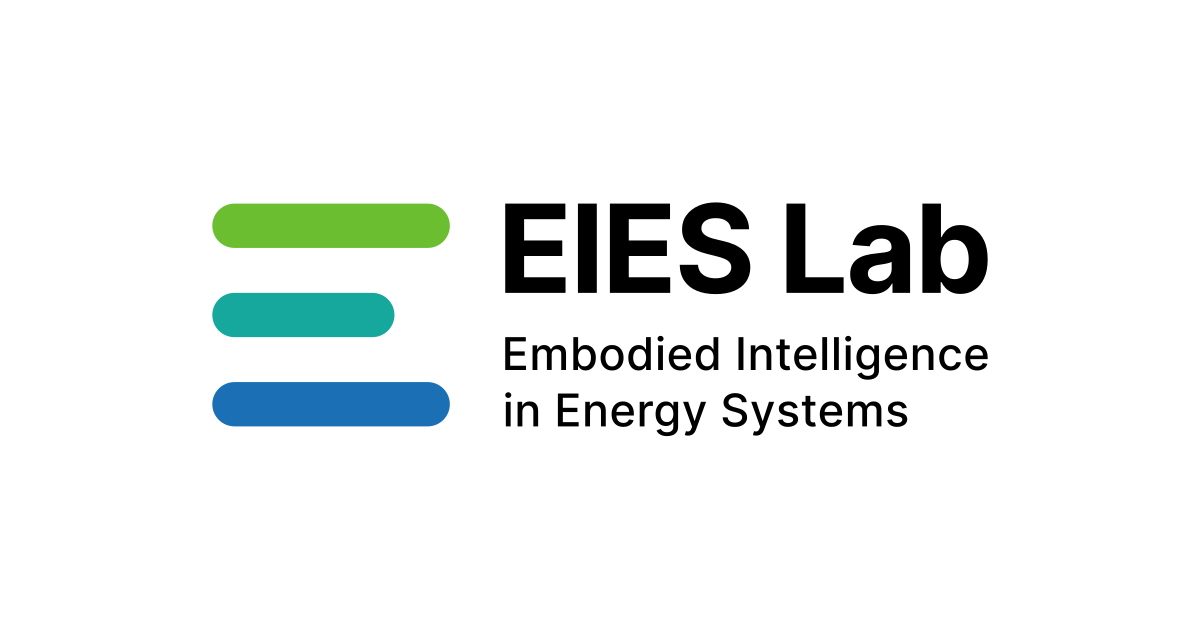
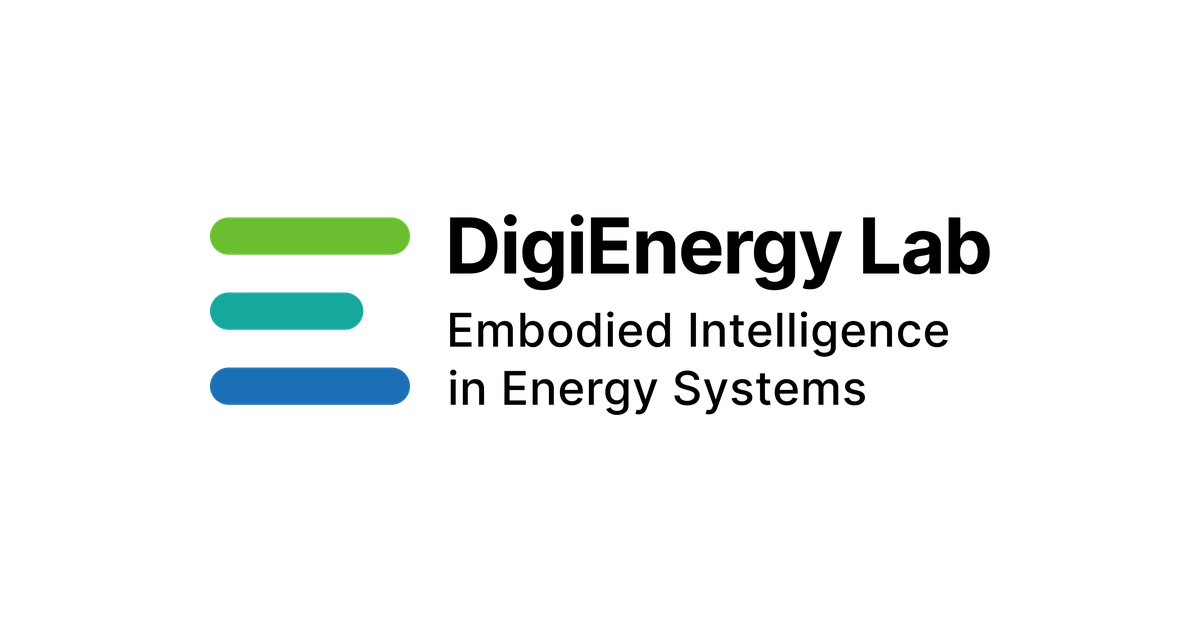
Rename the lab to DigiEnergy Lab; keep the embodied-intelligence narrative
- Logo: DigiEnergy Lab wordmark (C1 layout) above the unchanged
  "Embodied Intelligence in Energy Systems" line; EIES logo and share image
  kept as logo-eies.svg / sharing-eies.png
- Site name, browser title, copyright, homepage eyebrow and SEO text
- Homepage title is the research theme, without "Laboratory for"
- Team intro: DigiEnergy Lab is part of UEX at PolyU
- Contact page, profile default affiliation, member bios, news post
- Publications: drop the paper count

Changed region(s): [[0.1542, 0.3016, 0.8325, 0.6937], [0.185, 0.4524, 0.3392, 0.5429], [0.185, 0.3921, 0.3392, 0.4222]]

diff --git a/layouts/_partials/hbx/blocks/member-profile/block.html b/layouts/_partials/hbx/blocks/member-profile/block.html
@@ -14,7 +14,7 @@
     {{ with $profile.role }}<p class="mp-eyebrow">{{ . | markdownify }}</p>{{ end }}
     <h1 class="mp-name">{{ $profile.title }}{{ with $profile.name_alternate }}{{ if ne . $profile.title }} <span class="mp-alt">{{ . }}</span>{{ end }}{{ end }}</h1>
     {{ with $profile.affiliations }}{{ range first 1 . }}<p class="mp-aff">{{ .name }}</p>{{ end }}
-    {{ else }}<p class="mp-aff">{{ cond $zh "EIES-Lab · 香港理工大学" "EIES-Lab · The Hong Kong Polytechnic University" }}</p>{{ end }}
+    {{ else }}<p class="mp-aff">{{ cond $zh "DigiEnergy Lab · 香港理工大学" "DigiEnergy Lab · The Hong Kong Polytechnic University" }}</p>{{ end }}
     {{ with $profile.co_supervisor }}<p class="mp-cosup">{{ cond $zh (printf "与%s联合指导" .) (printf "Jointly supervised with %s" .) }}</p>{{ end }}
     <div class="mp-lead">
       {{ with $profile.bio }}{{ $page.RenderString (dict "display" "block") . }}{{ else }}<p>{{ cond $zh "个人简介待补充。" "Biography to come." }}</p>{{ end }}

diff --git a/layouts/publications/list.html b/layouts/publications/list.html
@@ -7,7 +7,7 @@
 <div class="pl-shell">
   <header class="pl-head">
     <h1>{{ .Title }}</h1>
-    <p class="pl-lead">{{ if $zh }}课题组成员发表的论文，共 {{ len $papers }} 篇。成员姓名加粗。{{ else }}{{ len $papers }} papers by lab members. Lab members are shown in bold.{{ end }}</p>
+    <p class="pl-lead">{{ if $zh }}成员姓名加粗。{{ else }}Lab members are shown in bold.{{ end }}</p>
     {{ with .Content }}<div class="pl-intro">{{ . }}</div>{{ end }}
   </header>
 

diff --git a/content/contact/_index.md b/content/contact/_index.md
@@ -14,14 +14,14 @@ sections:
         - { icon: hero/building-office-2, label: Department, value: Building Environment and Energy Engineering, url: "https://www.polyu.edu.hk/beee/" }
       visit:
         eyebrow: Visit
-        title: EIES-Lab, Block Z
+        title: DigiEnergy Lab, Block Z
         facts:
           - { label: Room, value: ZS831 }
           - { label: Building, value: "Block Z, The Hong Kong Polytechnic University" }
           - { label: Address, value: "Hung Hom, Kowloon, Hong Kong" }
         note: Visits are welcome by arrangement. Please email us first.
         # Map: OpenStreetMap data (OpenFreeMap tiles) drawn in the chokurei.net palette; light and dark versions.
-        map: { light: contact/map-light-en.png, dark: contact/map-dark-en.png, alt: "Map of Hung Hom with EIES-Lab at Block Z, PolyU", pin: [114.17944, 22.30649] }
+        map: { light: contact/map-light-en.png, dark: contact/map-dark-en.png, alt: "Map of Hung Hom with DigiEnergy Lab at Block Z, PolyU", pin: [114.17944, 22.30649] }
         credit: "© OpenMapTiles © OpenStreetMap contributors"
         map_url: https://www.google.com/maps/search/?api=1&query=Block+Z%2C+The+Hong+Kong+Polytechnic+University%2C+Hung+Hom
         osm_url: https://www.openstreetmap.org/?mlat=22.30649&mlon=114.17944#map=17/22.30649/114.17944
@@ -31,6 +31,6 @@ sections:
         text: We welcome collaborators, visiting scholars, research assistants, postdocs and PhD applicants. Please email us with your CV and a short note on your interests.
         roles: [PhD students, Postdocs, Research assistants, Visiting scholars, Collaborators]
         email: zhiling.guo@polyu.edu.hk
-        subject: "Application: EIES-Lab"
+        subject: "Application: DigiEnergy Lab"
         cta: Send your CV
 ---

diff --git a/content/contact/_index.zh.md b/content/contact/_index.zh.md
@@ -14,14 +14,14 @@ sections:
         - { icon: hero/building-office-2, label: 所属学系, value: 建筑环境及能源工程学系, url: "https://www.polyu.edu.hk/beee/" }
       visit:
         eyebrow: 来访
-        title: EIES-Lab · Z 座
+        title: DigiEnergy Lab · Z 座
         facts:
           - { label: 房间, value: ZS831 }
           - { label: 楼宇, value: "香港理工大学 Z 座" }
           - { label: 地址, value: "香港九龙红磡" }
         note: 欢迎预约参观，请先发邮件联系。
         # Map: OpenStreetMap data (OpenFreeMap tiles) drawn in the chokurei.net palette; light and dark versions.
-        map: { light: contact/map-light-zh.png, dark: contact/map-dark-zh.png, alt: "红磡一带地图，标出香港理工大学 Z 座 EIES-Lab 的位置", pin: [114.17944, 22.30649] }
+        map: { light: contact/map-light-zh.png, dark: contact/map-dark-zh.png, alt: "红磡一带地图，标出香港理工大学 Z 座 DigiEnergy Lab 的位置", pin: [114.17944, 22.30649] }
         credit: "© OpenMapTiles © OpenStreetMap 贡献者"
         map_url: https://www.google.com/maps/search/?api=1&query=Block+Z%2C+The+Hong+Kong+Polytechnic+University%2C+Hung+Hom
         osm_url: https://www.openstreetmap.org/?mlat=22.30649&mlon=114.17944#map=17/22.30649/114.17944
@@ -31,6 +31,6 @@ sections:
         text: 欢迎合作研究者、访问学者、研究助理、博士后及博士申请者。请发邮件附上简历，并简单介绍你的研究兴趣。
         roles: [博士生, 博士后, 研究助理, 访问学者, 合作研究]
         email: zhiling.guo@polyu.edu.hk
-        subject: "申请：EIES-Lab"
+        subject: "申请：DigiEnergy Lab"
         cta: 发送简历
 ---

diff --git a/content/_index.md b/content/_index.md
@@ -2,8 +2,8 @@
 title: ''
 # For search engines: browser-tab / Google result title and snippet (not shown on the page).
 seo:
-  title: EIES-Lab | Laboratory for Embodied Intelligence in Energy Systems, PolyU
-summary: EIES-Lab (能源具身智能实验室), the Laboratory for Embodied Intelligence in Energy Systems at The Hong Kong Polytechnic University, studies how energy constraints shape intelligent perception and decision-making, and how embodied intelligence reshapes energy systems through physical action.
+  title: DigiEnergy Lab | Embodied Intelligence in Energy Systems, PolyU
+summary: DigiEnergy Lab at The Hong Kong Polytechnic University, one of the four labs of the International Centre of Urban Energy Nexus (UEX), studies how energy constraints shape intelligent perception and decision-making, and how embodied intelligence reshapes energy systems through physical action.
 type: landing
 # Restrained homepage: Hero (live 3D scene) + Mission + Approach carry the narrative; thrusts as short cards;
 # validation as real cases; publications/team as selected previews. Details live on /research/, /publications/, /team/.
@@ -13,8 +13,8 @@ sections:
   # and under the GitHub Pages subpath (/eies-lab-site/).
   - block: hero-scene
     content:
-      eyebrow: EIES-Lab · The Hong Kong Polytechnic University
-      title: Laboratory for<br>[Embodied Intelligence<br>in Energy Systems]
+      eyebrow: DigiEnergy Lab · UEX · The Hong Kong Polytechnic University
+      title: '[Embodied Intelligence<br>in Energy Systems]'
       text: '**Energy Shapes Intelligence. Intelligence Reshapes Energy Systems.**'
       primary_action:
         text: Explore Our Research

diff --git a/content/_index.zh.md b/content/_index.zh.md
@@ -2,8 +2,8 @@
 title: ''
 # 搜索引擎用：浏览器标签/谷歌结果标题与摘要（页面上不显示）。中文全称必须连续出现。
 seo:
-  title: 能源具身智能实验室 EIES-Lab | 香港理工大学
-summary: 能源具身智能实验室（EIES-Lab，Laboratory for Embodied Intelligence in Energy Systems）隶属香港理工大学，研究能源约束如何塑造智能感知与决策，以及具身智能如何通过物理行动改变能源系统的运行：能源系统感知、基于物理的能源世界模型、能源约束下的具身决策与控制。
+  title: DigiEnergy Lab · 能源具身智能 | 香港理工大学
+summary: DigiEnergy Lab 是香港理工大学 International Centre of Urban Energy Nexus（UEX）的四个实验室之一，研究能源约束如何塑造智能感知与决策，以及具身智能如何通过物理行动改变能源系统的运行：能源系统感知、基于物理的能源世界模型、能源约束下的具身决策与控制。
 type: landing
 # 与 content/_index.md 结构一一对应；改动时两边同步。
 sections:
@@ -11,8 +11,8 @@ sections:
   # and under the GitHub Pages subpath (/eies-lab-site/).
   - block: hero-scene
     content:
-      eyebrow: EIES-Lab · 香港理工大学
-      title: '[能源具身智能]<br>实验室'
+      eyebrow: DigiEnergy Lab · UEX · 香港理工大学
+      title: '[能源具身智能]'
       text: '**能源塑造智能，智能重塑能源系统。**'
       primary_action:
         text: 了解我们的研究

diff --git a/content/news/website-launch/index.md b/content/news/website-launch/index.md
@@ -2,8 +2,8 @@
 title: New lab website (test version)
 title_zh: 实验室新网站（测试版）
 date: 2026-10-20
-summary: The EIES-Lab website is moving to an open-source, bilingual static site.
-summary_zh: EIES-Lab 网站迁移到开源的中英双语静态站点。
+summary: The DigiEnergy Lab website is moving to an open-source, bilingual static site.
+summary_zh: DigiEnergy Lab 网站迁移到开源的中英双语静态站点。
 body_zh: 实验室网站正在重建为中英双语静态站点。这是一条占位新闻。
 ---
-The EIES-Lab website is being rebuilt as a bilingual static site. This is a placeholder news post.
+The DigiEnergy Lab website is being rebuilt as a bilingual static site. This is a placeholder news post.

diff --git a/content/team/_index.md b/content/team/_index.md
@@ -9,5 +9,5 @@ sections:
   - block: team-showcase
     content:
       # One line under the page title (HTML allowed)
-      text: 'DigiEnergy Lab is one of the <a href="https://www.polyu.edu.hk/iuex/research/" target="_blank" rel="noopener">four labs</a> of the <a href="https://www.polyu.edu.hk/iuex/" target="_blank" rel="noopener">International Centre of Urban Energy Nexus (UEX)</a> at PolyU.'
+      text: 'DigiEnergy Lab is part of the <a href="https://www.polyu.edu.hk/iuex/" target="_blank" rel="noopener">International Centre of Urban Energy Nexus (UEX)</a> at PolyU.'
 ---

diff --git a/content/team/_index.zh.md b/content/team/_index.zh.md
@@ -7,5 +7,5 @@ cascade:
 sections:
   - block: team-showcase
     content:
-      text: 'DigiEnergy Lab 是香港理工大学<a href="https://www.polyu.edu.hk/iuex/" target="_blank" rel="noopener">International Centre of Urban Energy Nexus（UEX）</a>的<a href="https://www.polyu.edu.hk/iuex/research/" target="_blank" rel="noopener">四个实验室</a>之一。'
+      text: 'DigiEnergy Lab 隶属于香港理工大学<a href="https://www.polyu.edu.hk/iuex/" target="_blank" rel="noopener">International Centre of Urban Energy Nexus（UEX）</a>。'
 ---
